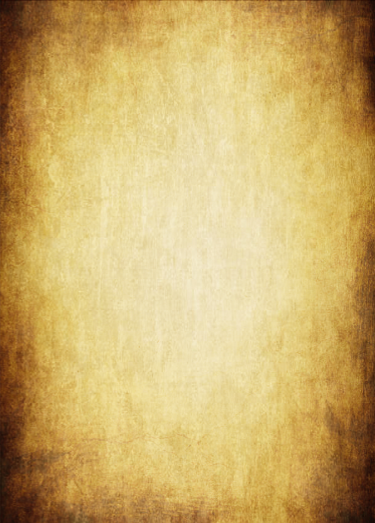
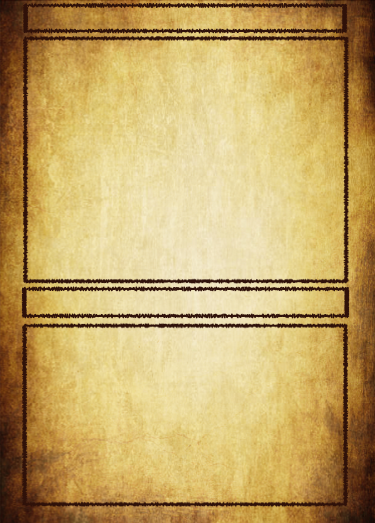
Added art, added symbol translation map. Added basic assets. Added more fields.

Changed region(s): [[0.0587, 0.0, 0.9387, 0.979]]

diff --git a/inkrose/src/App.js b/inkrose/src/App.js
@@ -1,14 +1,58 @@
+import React, {useEffect, useState} from 'react';
 import './App.css';
+import placeholderArt from './assets/author.png'
+import Card from './Card.js';
+import {SymbolText} from './SymbolText';
 
 function App() {
+  const st = new SymbolText();
+  const [card, setCard] = useState(new Card("The Chaos Blossom", "{1} {C} {M}", "Portrait?", 4, 2, [], "It's not even a rose.", "One of many to come.", "Inkcredible.", "ALPHA01", 0))
+  
+  // Uploaded by the creator
+  const [cardArt, setCardArt] = useState(placeholderArt);
+
+  // Not every card has stats. {Power/Health}
+  // If a card doesn't have stats, these will not be shown.
+  const [hasStats, setHasStates] = useState(false);
+
+  // Cards can have anywhere from 0 to 3 sigils.
+  // The banner decreases or increases in size depending on the amount of sigils present on the card.
+  // Sigils are user uploaded.
+  const [sigils, setSigils] = useState(0);
+
+  const test = "{SECRET} {T} test {NYA}"
+  console.log(st.translate(test));
+
   return (
     <div className='app'>
       <div className='container'>
         <div className='container-item edit'>
-          <p>VALUES: Name, Cost, Art, Type, Sub-type, (power / toughness), (sigils), text1, text2, flavour text, card ID</p>
+          {/* CONTROLS GO HERE */}
         </div>
         <div className='container-item preview'>
-          <img src='/frame.png' alt="card frame"/>
+          <div className='card-overlay'>
+
+            {/* CUSTOM CARD VARIABLES GO HERE  */}
+            <div className='card-name'> <div>{card.getName()}</div> </div>
+            <div className='card-cost'> {st.translate(card.getCost())} </div>
+            <div className='card-art'> <img src={cardArt}></img> </div>
+            <div className='card-type'> <div>{card.getType()}</div> </div>
+
+            <div className='card-power'> </div>
+            <div className='card-health'> </div>
+
+
+            <div className='card-text-primary'> </div>
+            <div className='card-text-secondary'> </div>
+            <div className='card-text-flavour'> </div>
+
+
+            <div className='card-id'> </div>
+            <div className='card-rarity'> </div>
+          </div>
+
+          <img className='card-wobble' src='/wobbles/MY-M.png' alt='card wobble'></img>
+          <img className='card-frame' src='/frame.png' alt="card frame"/>
         </div>
       </div>
     </div>

diff --git a/inkrose/src/SymbolText.js b/inkrose/src/SymbolText.js
@@ -1,0 +1,51 @@
+import React, { Fragment } from 'react';
+
+import t from './assets/symbols/t.png'
+import zero from './assets/symbols/0.png'
+import one from './assets/symbols/1.png'
+import two from './assets/symbols/2.png'
+import three from './assets/symbols/3.png'
+import four from './assets/symbols/4.png'
+import five from './assets/symbols/5.png'
+import six from './assets/symbols/6.png'
+import seven from './assets/symbols/7.png'
+import eight from './assets/symbols/8.png'
+import nine from './assets/symbols/9.png'
+import C from './assets/symbols/C.png'
+import M from './assets/symbols/M.png'
+import Y from './assets/symbols/Y.png'
+import K from './assets/symbols/K.png'
+
+export class SymbolText {
+  map = {
+    '{T}': <img src={t} alt="tap symbol" />,
+    '{NYA}': 'boop!',
+    '{SECRET}': 'I love you, Scarlett.',
+    '{0}': <img src={zero} alt="zero" />,
+    '{1}': <img src={one} alt="one" />,
+    '{2}': <img src={two} alt="two" />,
+    '{3}': <img src={three} alt="three" />,
+    '{4}': <img src={four} alt="four" />,
+    '{5}': <img src={five} alt="five" />,
+    '{6}': <img src={six} alt="six" />,
+    '{7}': <img src={seven} alt="seven" />,
+    '{8}': <img src={eight} alt="eight" />,
+    '{9}': <img src={nine} alt="nine" />,
+    '{C}': <img src={C} alt="C" />,
+    '{M}': <img src={M} alt="M" />,
+    '{Y}': <img src={Y} alt="Y" />,
+    '{K}': <img src={K} alt="K" />
+  }
+
+  // Regular expression to match all keys in the map
+  symbolRegex = new RegExp(`(${Object.keys(this.map).map(k => k.replace(/[.*+?^${}()|[\]\\]/g, '\\$&')).join('|')})`, 'g')
+  translate(input) {
+    return (
+      <Fragment>
+        {input.split(this.symbolRegex).map((part, index) => (
+          this.map[part] || part
+        ))}
+      </Fragment>
+    );
+  }
+}

diff --git a/inkrose/src/Card.js b/inkrose/src/Card.js
@@ -1,0 +1,75 @@
+export default class Card {
+    constructor(
+        name,
+        cost,
+        type,
+        power,
+        health,
+        sigils,
+        textPrimary,
+        textSecondary,
+        textFlavour,
+        cardId,
+        rarity)
+    {
+        this.name = name;
+        this.cost = cost;
+        this.type = type;
+        this.power = power;
+        this.health = health;
+        this.sigils = sigils;
+        this.textPrimary = textPrimary;
+        this.textSecondary = textSecondary;
+        this.textFlavour = textFlavour;
+        this.cardId = cardId;
+        this.rarity = rarity;
+    }
+
+    getName() {
+        return this.name;
+      }
+    
+      getCost() {
+        return this.cost;
+      }
+    
+      getType() {
+        return this.type;
+      }
+    
+      getPower() {
+        return this.power;
+      }
+    
+      getHealth() {
+        return this.health;
+      }
+    
+      getSigils() {
+        return this.sigils;
+      }
+    
+      getTextPrimary() {
+        return this.textPrimary;
+      }
+    
+      getTextSecondary() {
+        return this.textSecondary;
+      }
+    
+      getTextFlavour() {
+        return this.textFlavour;
+      }
+    
+      getCardId() {
+        return this.cardId;
+      }
+    
+      getRarity() {
+        return this.rarity;
+      }
+    
+      toString() {
+        return `${this.name} (${this.cost}) [${this.type}]`;
+      }
+}

diff --git a/inkrose/src/App.css b/inkrose/src/App.css
@@ -18,15 +18,67 @@
 }
 
 .container-item {
-  background-color: #ff0000;
   box-sizing: border-box;
 }
 
-.edit{
+.edit {
+  background-color: #FFFFFF30;
+  border-radius: 10px;
 
 }
 
 .preview{
   background-color: #00000000;
+  z-index: 0;
+}
 
+.card-overlay{
+  margin: 0;
+  position: absolute;
+  z-index: 1;
+}
+
+.card-name{
+  top: 6px;
+  left: 30px;
+  width: 200px;
+  position: absolute;
+  z-index: 2;
+}
+
+.card-cost{
+  top: 2px;
+  width: 165px;
+  left: 208px;
+  position: absolute;
+  z-index: 3;
+}
+
+.card-cost img {
+  height: 50px;
+}
+
+.card-art {
+  position: absolute;
+  z-index: 4;
+  top: 38px;
+  left: 27px;
+  width: 318px;
+  height: 242px;
+}
+
+.card-art img {
+  width: 100%;
+  height: 100%;
+}
+
+.card-wobble {
+  position: absolute;
+}
+
+.card-type{
+  position:absolute;
+  top: 290px;
+  left: 30px;
+  z-index: 5;
 }
